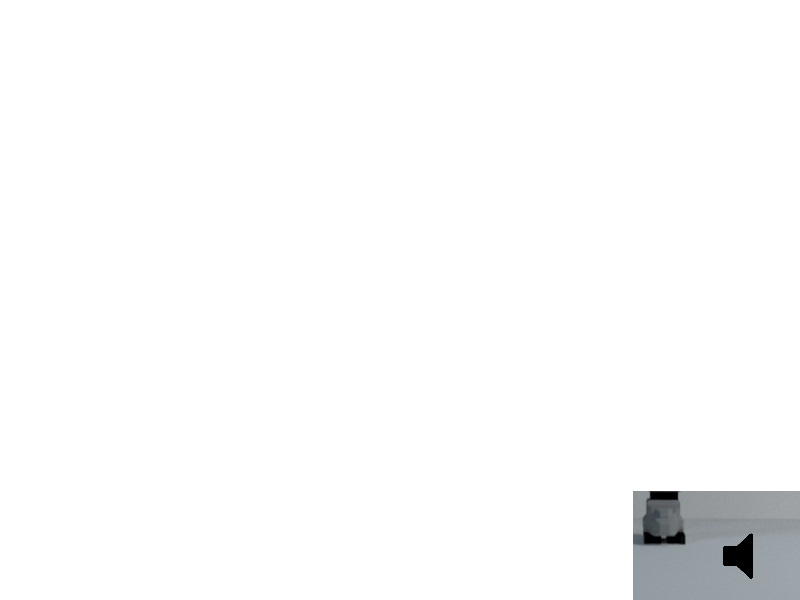
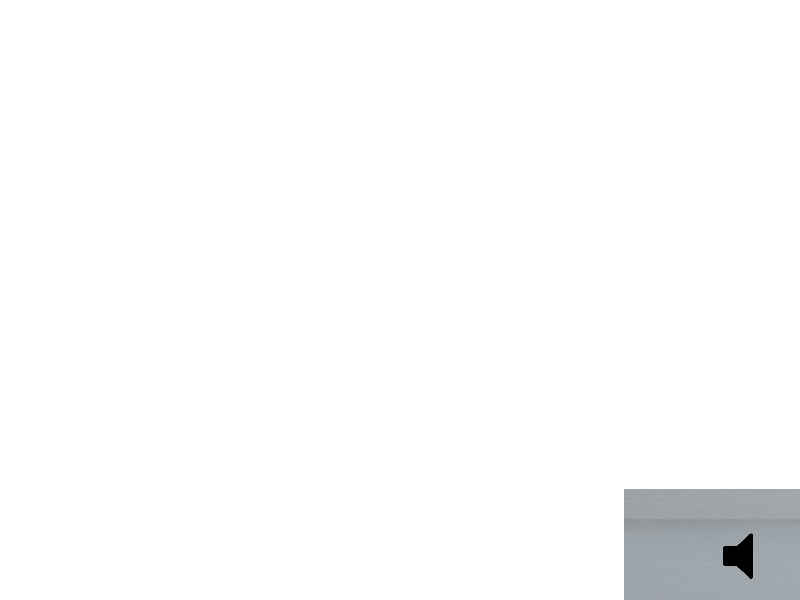
Update menu

Changed region(s): [[0.7812, 0.81, 1.0, 1.0]]

diff --git a/Game.py b/Game.py
@@ -75,10 +75,10 @@ def menu1(canvas):
         setY = 245
 
 #loading all images, buttons
-        robot = image(canvas,(rX,rY),"robots/robot.png")
-        robot.scale(300,300)
-        robot.scale(200,200)
-        transp = image(canvas,(10,140),"menu/transparrent.png")
+        #robot = image(canvas,(rX,rY),"robots/robot.png")
+        #robot.scale(300,300)
+        #robot.scale(200,200)
+        #transp = image(canvas,(10,140),"menu/transparrent.png")
         helloW = image(canvas,(60,0),"menu/VR.png")
         bgpart = image(canvas,(0,0),"menu/bgpart.png")
         background  = image(canvas,(0,0),"menu/wallpaper.jpg")
@@ -116,12 +116,12 @@ def menu1(canvas):
 #blitting everything    
         canvas.fill((0,0,0))
         background.blit()
-        transp.blit() 
+        #transp.blit() 
         leaderboardB.blit()
         creditB.blit()
         helloW.blit()
         closeB.blit()
-        robot.blit()
+        #robot.blit()
         startB.blit()
         soundOffB.blit()
         settingsB.blit()
@@ -259,7 +259,7 @@ def menu1(canvas):
 
                                 #reblit everything with the game mode buttons
                                 background.blit()
-                                transp.blit()
+                                #transp.blit()
                                 leaderboardB.blit()
                                 creditB.blit()
                                 helloW.blit()
@@ -281,7 +281,7 @@ def menu1(canvas):
                                 inStart = 0
                                 inSettings = 1
                                 background.blit()
-                                transp.blit()
+                                #transp.blit()
                                 leaderboardB.blit()
                                 creditB.blit()
                                 helloW.blit()
